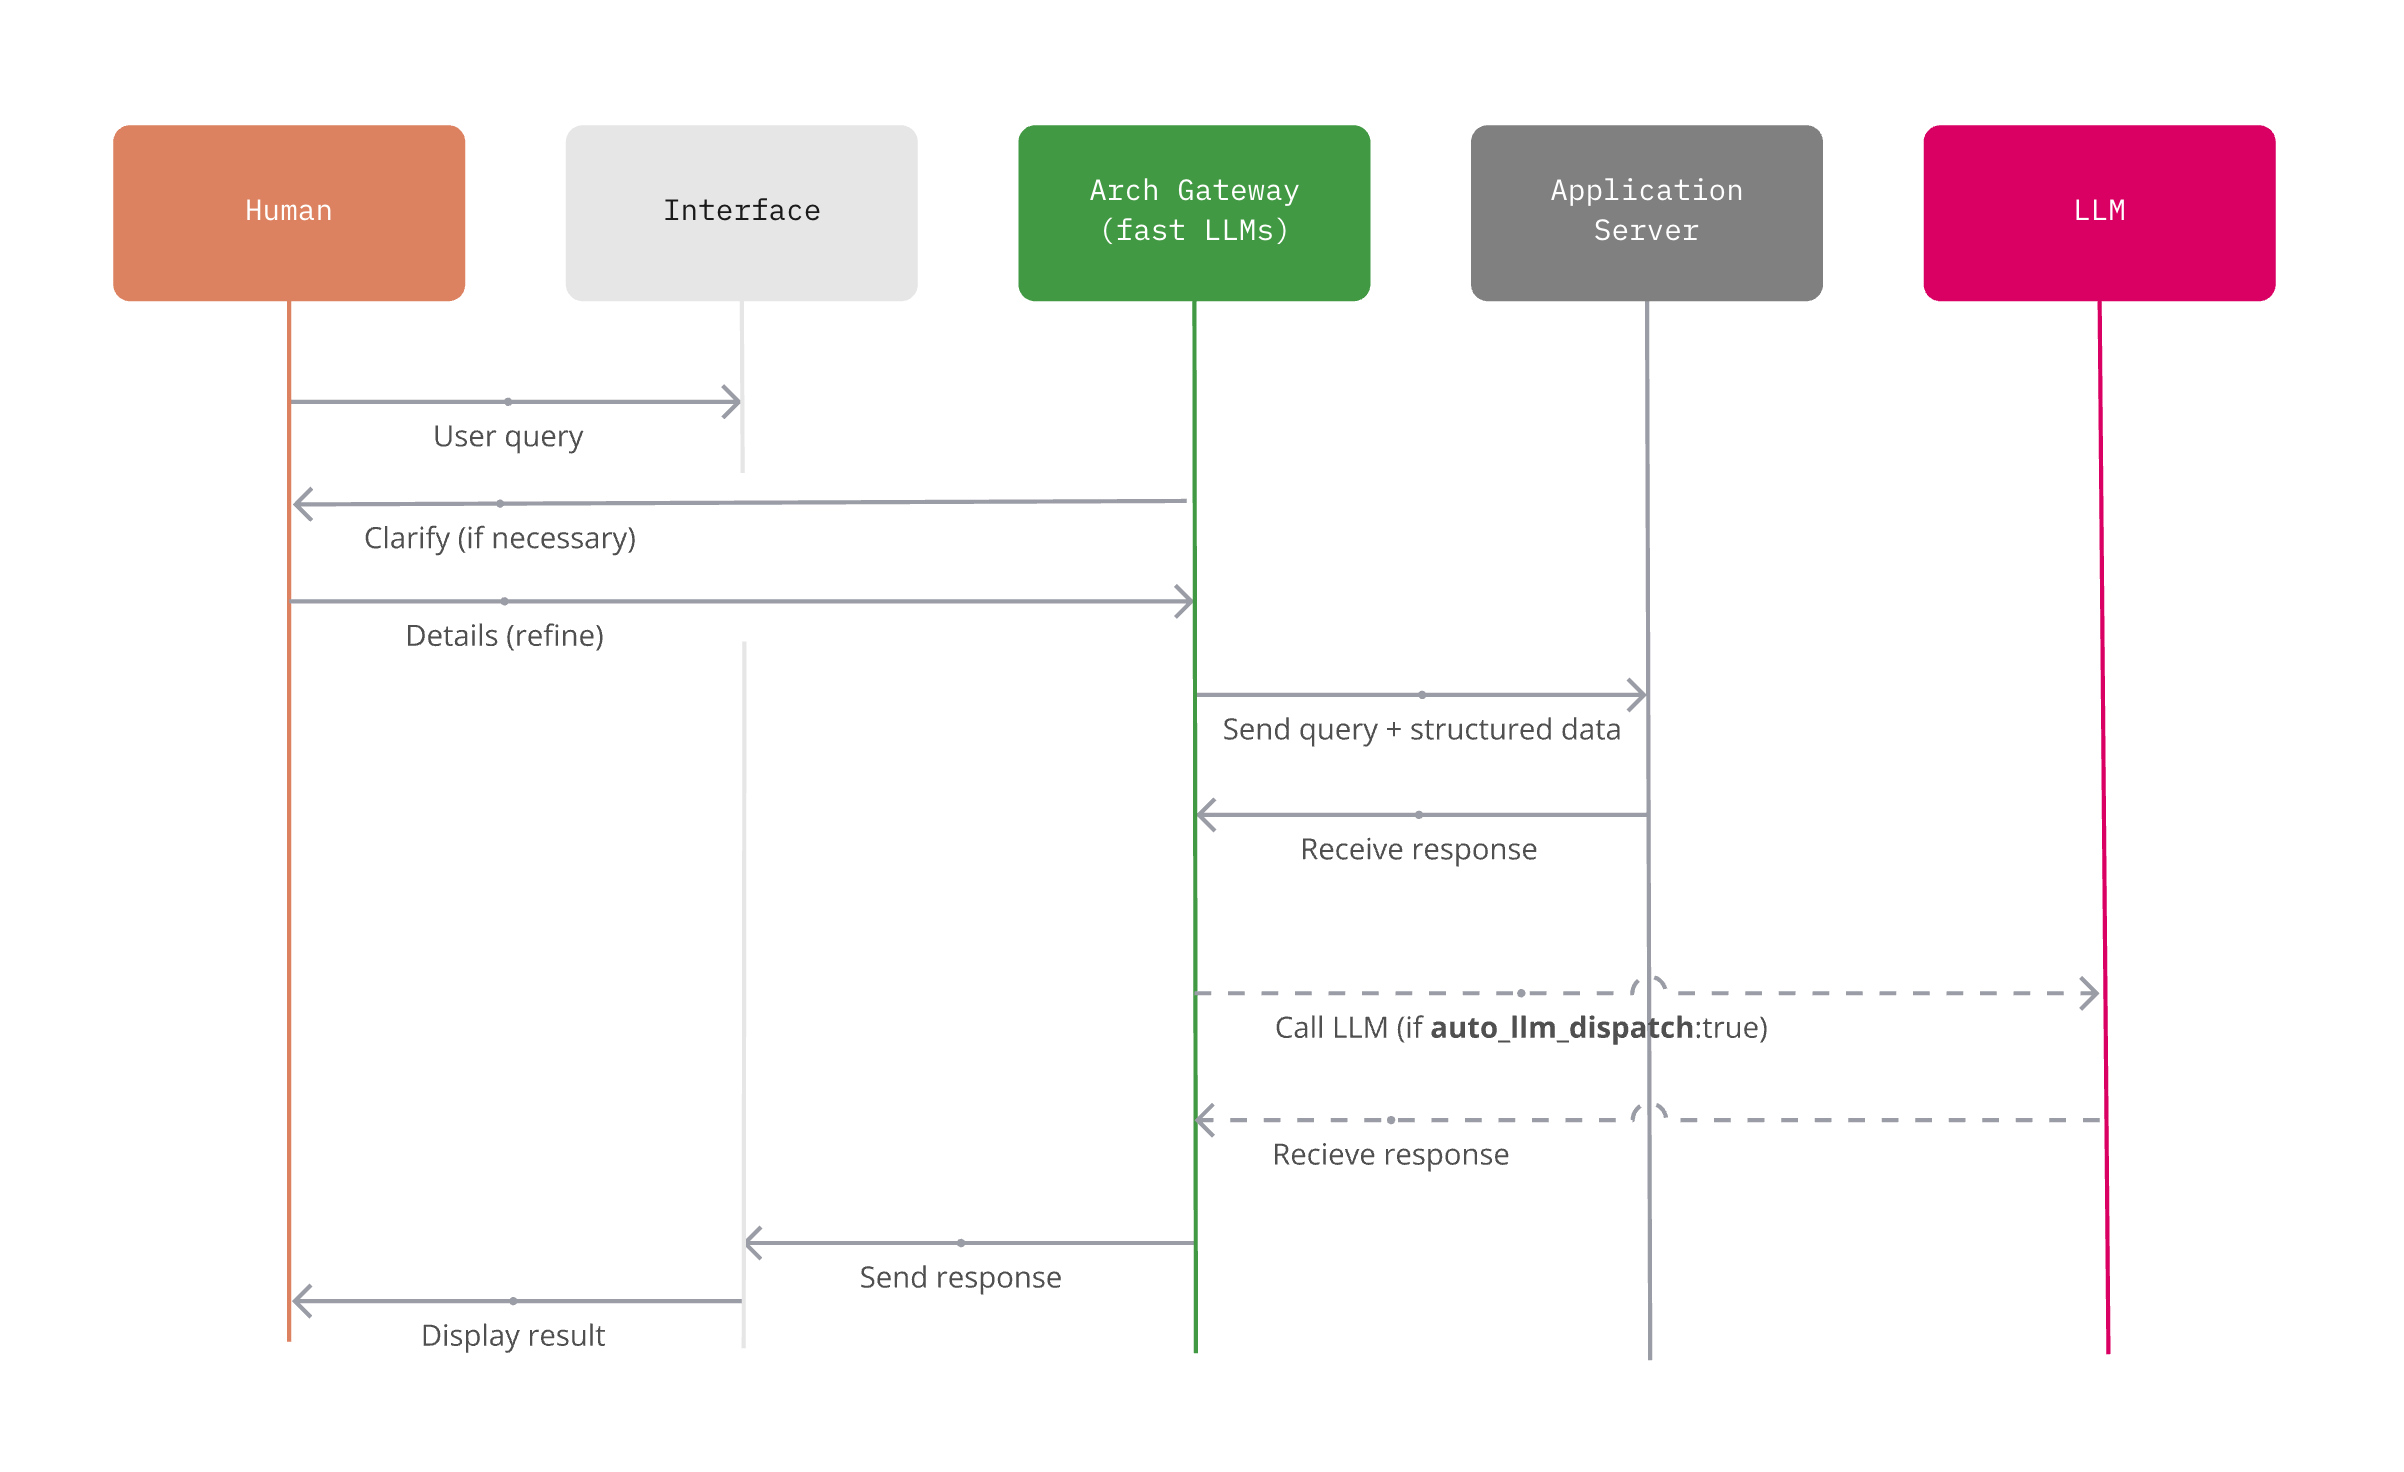
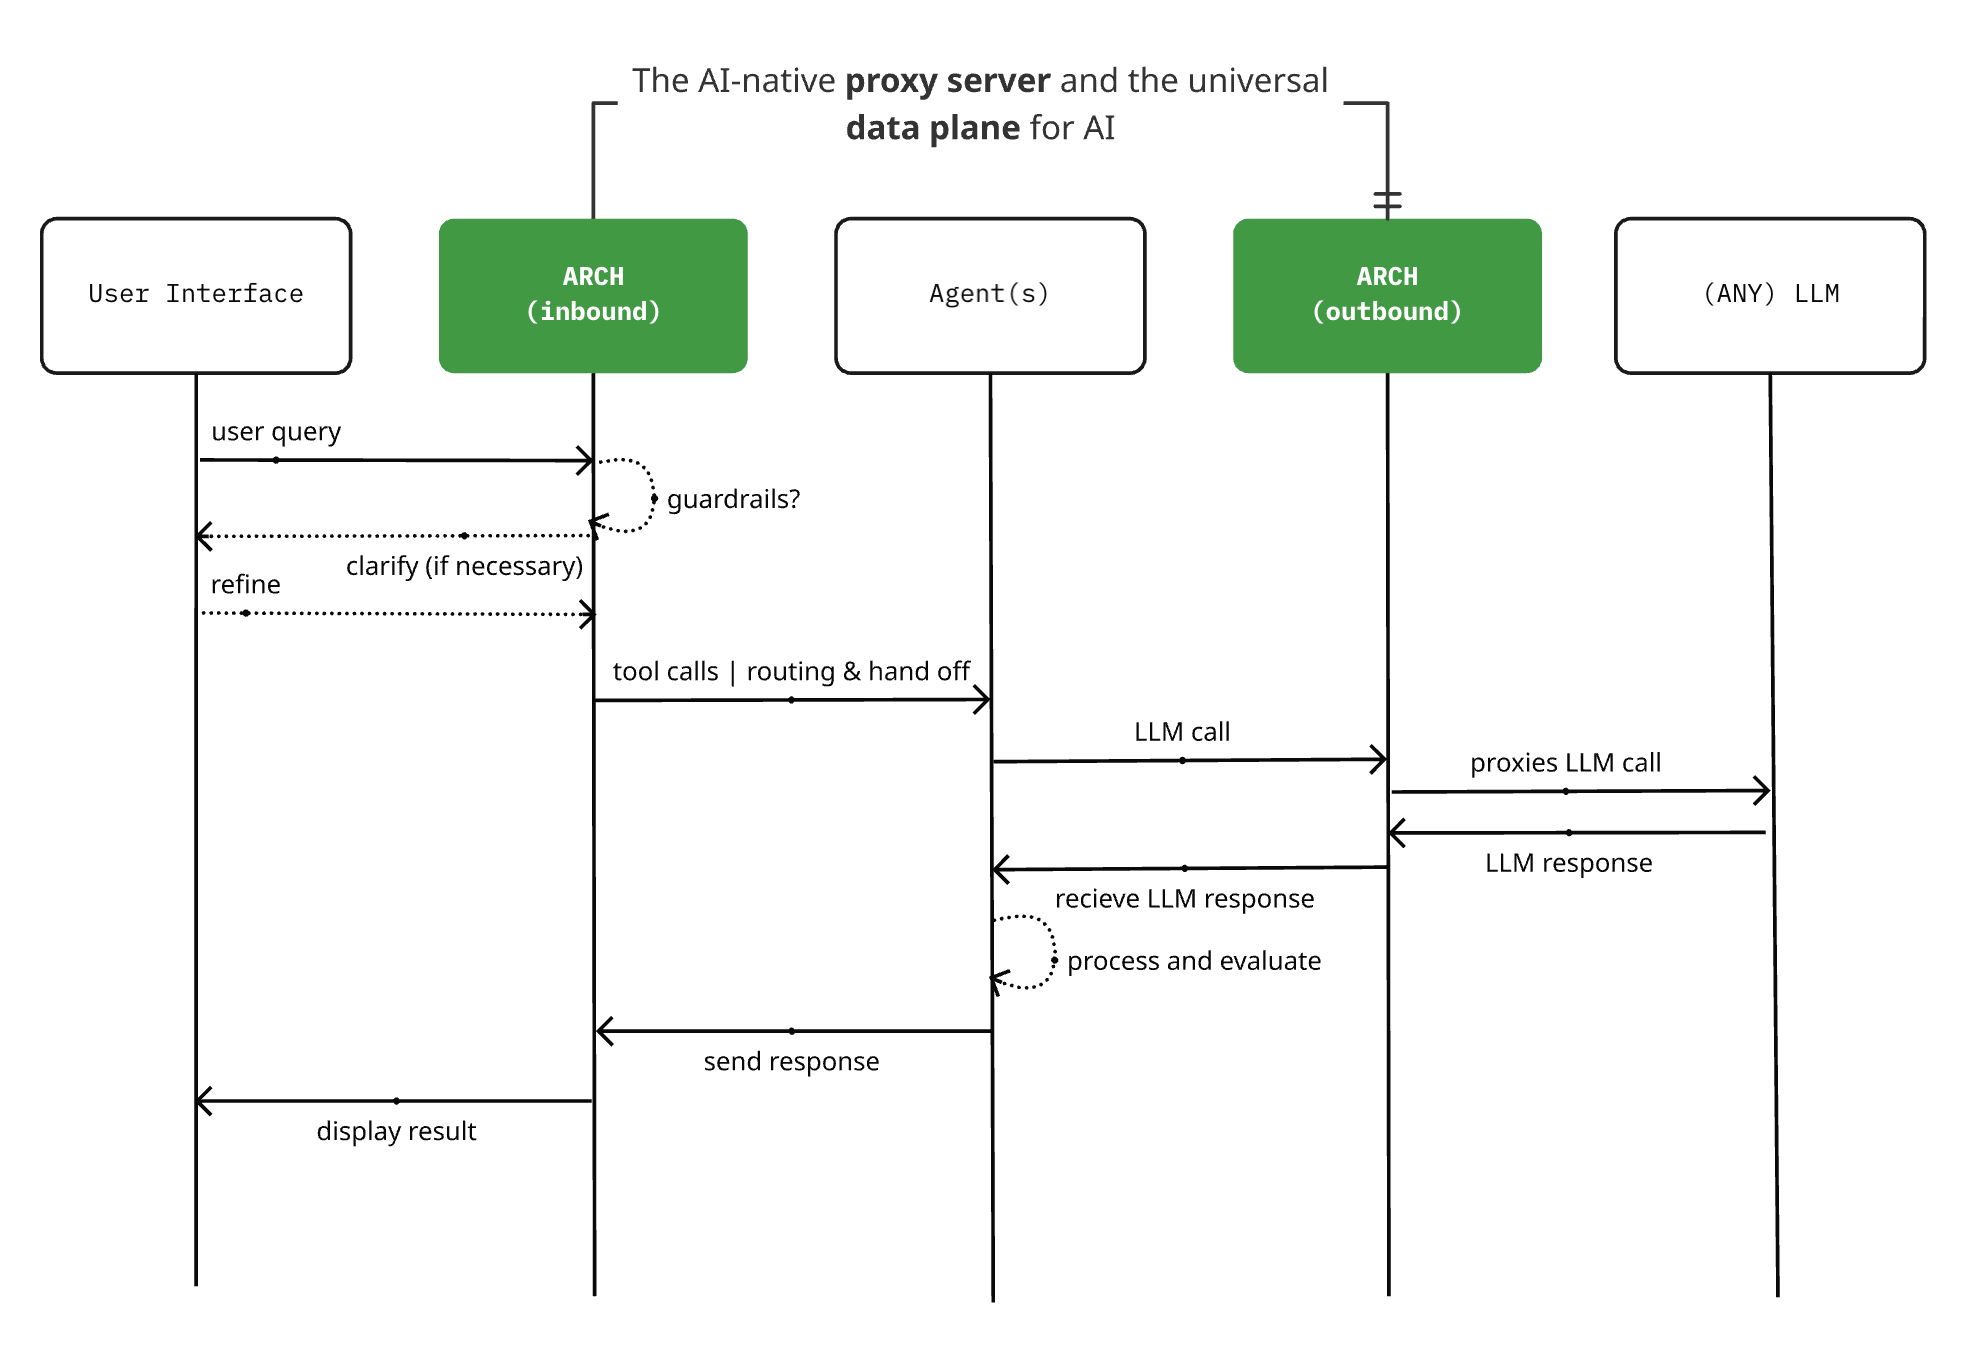
pushing docs updated

diff --git a/README.md b/README.md
@@ -1,11 +1,12 @@
 <div align="center">
-  <img src="docs/source/_static/img/arch-logo.png" alt="Arch Logo" width="75%" heigh=auto>
+  <img src="docs/source/_static/img/arch-logp.png" alt="Arch Logo" width="75%" heigh=auto>
 </div>
 <div align="center">
 
 
-_The AI-native proxy server for agentic applications._<br><br>
-Arch handles the **pesky**, low-level details like routing user prompts to the right agents or specialized Model Context Protocol (MCP) tools, providing unified access and observability to large language models (LLMs), and quickly clarifying vague user inputs. With Arch, you build faster by focusing on the high-level logic of agents.
+_The AI-native proxy server and the universal data plane for AI agents._<br><br>
+Arch implements **pesky**, low-level infrastructure patterns like quickly clarifying vague user inputs, routing prompts to the right agents or specialized Model Context Protocol (MCP) tools, and providing unified access and observability to large language models (LLMs) - all without locking you into a framework.. With Arch, you build faster by focusing on the high-level logic of your agents.
+
 
 [Quickstart](#Quickstart) •
 [Demos](#Demos) •
@@ -25,14 +26,14 @@ Arch handles the **pesky**, low-level details like routing user prompts to the r
 # Overview
 <a href="https://www.producthunt.com/posts/arch-3?embed=true&utm_source=badge-top-post-badge&utm_medium=badge&utm_souce=badge-arch&#0045;3" target="_blank"><img src="https://api.producthunt.com/widgets/embed-image/v1/top-post-badge.svg?post_id=565761&theme=dark&period=daily&t=1742359429995" alt="Arch - Build&#0032;fast&#0044;&#0032;hyper&#0045;personalized&#0032;agents&#0032;with&#0032;intelligent&#0032;infra | Product Hunt" style="width: 188px; height: 41px;" width="188" height="41" /></a>
 
-Past the thrill of an AI demo, have you found yourself hitting these walls? You know, the all too familiar ones:
+AI demos are easy to build. But past the thrill of a quick hack, you are left building, maintaining and scaling low-level plumbing code for agents that slows down AI innovation. For example:
 
-- You go from one BIG prompt to specialized prompts, but get stuck building **routing and handoff** code?
-- You want use new LLMs, but struggle to **quickly and safely add LLMs** without writing integration code?
-- You're bogged down with prompt engineering just to **clarify user intent and validate inputs** effectively?
-- You're wasting cycles choosing and integrating code for **observability** instead of it happening transparently?
+- You want to build specialized agents, but get stuck building **routing and handoff** code.
+- You want use new LLMs, but struggle to **quickly and safely add LLMs** without writing integration code.
+- You're bogged down with prompt engineering work to **clarify user intent and validate inputs**.
+- You're wasting cycles choosing and integrating code for **observability** instead of it happening transparently.
 
-And you think to yourself, can't I move faster by focusing on higher-level objectives in a language/framework agnostic way? Well, you can! **Arch Gateway** was built by the contributors of [Envoy Proxy](https://www.envoyproxy.io/) with the belief that:
+With Arch, you can move faster by focusing on higher-level objectives in a language and framework agnostic way. **Arch** was built by the contributors of [Envoy Proxy](https://www.envoyproxy.io/) with the belief that:
 
 >Prompts are nuanced and opaque user requests, which require the same capabilities as traditional HTTP requests including secure handling, intelligent routing, robust observability, and integration with backend (API) systems to improve speed and accuracy for common agentic scenarios  – all outside core application logic.*
 

diff --git a/docs/source/get_started/intro_to_arch.rst b/docs/source/get_started/intro_to_arch.rst
@@ -2,18 +2,16 @@
 
 Intro to Arch
 =============
+AI demos are easy to build. But past the thrill of a quick hack, you are left building, maintaining and scaling low-level plumbing code for agents that slows down AI innovation.
+For example:
 
-Arch is an intelligent proxy server designed agentic applications. **Move faster** by letting Arch handle the **pesky heavy lifting** in building agents:
-fast input clarification, agent routing, seamless integration of prompts with tools for common tasks, and unified access and observability of LLMs.
+- You want to build specialized agents, but get stuck writing **routing and handoff** code.
+- You bogged down with prompt engineering work to **clarify user intent and validate inputs**.
+- You want to **quickly and safely use new LLMs** but get stuck writing integration code.
+- You waste cycles writing and maintaining **observability** code, when it can be transparent.
+- You want to **apply guardrails**, but have to write custom code for each prompt and LLM.
 
-Past the thrill of an AI demo, have you found yourself hitting these walls? You know, the all too familiar ones:
-
-- You break a prompt into specialized ones, but **get stuck writing routing** and handoff logic?
-- You want use new LLMs, but **struggle to quickly add LLMs** without writing integration logic?
-- You're **trapped in tedious prompting work** to clarify inputs and user intents?
-- You're **wasting cycles** choosing and integrating **code for observability** instead of it just happening transparently?
-
-And you think to yourself, can't I move faster by focusing on higher-level objectives in a language and framework agnostic way? Well, you can!
+Arch is designed to solve these problems by providing a unified, out-of-process architecture that integrates with your existing application stack, enabling you to focus on building high-level features rather than plumbing — all without locking you into a framework.
 
 .. figure:: /_static/img/arch_network_diagram_high_level.png
    :width: 100%
@@ -22,7 +20,7 @@ And you think to yourself, can't I move faster by focusing on higher-level objec
    High-level network flow of where Arch Gateway sits in your agentic stack. Designed for both ingress and egress prompt traffic.
 
 
-**Arch Gateway was built by the contributors of Envoy Proxy with the belief that:**
+Arch is an AI-native proxy server and the universal data plane for AI built by the contributors of Envoy Proxy with the belief that:
 
   *Prompts are nuanced and opaque user requests, which require the same capabilities as traditional HTTP requests
   including secure handling, intelligent routing, robust observability, and integration with backend (API)
@@ -41,8 +39,8 @@ This gives Arch several advantages:
 
 * Arch can be deployed and upgraded quickly across your infrastructure transparently without the horrid pain of deploying library upgrades in your applications.
 
-**Engineered with Fast LLMs:** Arch is engineered with specialized small LLMs that are designed for fast, cost-effective and accurate handling of prompts.
-These LLMs are designed to be best-in-class for critical prompt-related tasks like:
+**Engineered with Fast Task-Specific LLMs (TLMs):** Arch is engineered with specialized LLMs that are designed for the fast, cost-effective and accurate handling of prompts.
+These LLMs are designed to be best-in-class for critical tasks like:
 
 * **Function Calling:** Arch helps you easily personalize your applications by enabling calls to application-specific (API) operations via user prompts.
   This involves any predefined functions or APIs you want to expose to users to perform tasks, gather information, or manipulate data.

diff --git a/docs/source/index.rst b/docs/source/index.rst
@@ -9,14 +9,14 @@ Welcome to Arch!
 
    <div style="text-align: center; font-size: 1.25rem;">
    <br>
-   <p>Build <strong>fast</strong>, <strong>observable</strong>, and <strong>personalized</strong> GenAI apps</p>
+   <p>Build <strong>fast</strong>, <strong>secure</strong>, and <strong>highly personalized</strong> AI.</p>
    </div>
 
    <a href="https://www.producthunt.com/posts/arch-3?embed=true&utm_source=badge-top-post-badge&utm_medium=badge&utm_souce=badge-arch&#0045;3" target="_blank"><img src="https://api.producthunt.com/widgets/embed-image/v1/top-post-badge.svg?post_id=565761&theme=dark&period=daily&t=1742433071161" alt="Arch - Build&#0032;fast&#0044;&#0032;hyper&#0045;personalized&#0032;agents&#0032;with&#0032;intelligent&#0032;infra | Product Hunt" style="width: 250px; height: 54px;" width="250" height="54" /></a>
 
-`Arch <https://github.com/katanemo/arch>`_ is an intelligent (edge and LLM) proxy, exclusively designed for prompts and agents - and built by the contributors of the widely adopted and loved `Envoy <https://www.envoyproxy.io/>`_ ).
+`Arch <https://github.com/katanemo/arch>`_ is an AI-native proxy server and the universal data plane for AI - one that is natively designed to handle and process AI prompts, not just network traffic.
 
-**Move faster** by letting Arch handle the **pesky heavy lifting** in building agents: fast input clarification, agent routing, seamless integration of prompts with tools for common tasks, and unified access and observability of LLMs - all outside business logic.
+Built by contributors to the widely adopted `Envoy Proxy <https://www.envoyproxy.io/>`_, Arch helps you move faster by handling the pesky heavy lifting in AI agent development—fast input clarification, intelligent agent routing, seamless prompt-to-tool integration, and unified LLM access and observability—all without locking you into a framework.
 
 .. tab-set::
 

diff --git a/docs/source/get_started/overview.rst b/docs/source/get_started/overview.rst
@@ -3,10 +3,10 @@
 
 Overview
 ============
-Welcome to Arch, The intelligent (edge and LLM) proxy server for agentic applications.
+`Arch <https://github.com/katanemo/arch>`_ is an AI-native proxy server and the universal data plane for AI - one that is natively designed to handle and process AI prompts, not just network traffic.
 
-Move **faster** by letting Arch handle the pesky heavy lifting in building agents: **fast input clarification**, **agent routing**,
-seamless integration of prompts with **tools for common tasks**, and **unified access and observability of LLMs**.
+Built by contributors to the widely adopted `Envoy Proxy <https://www.envoyproxy.io/>`_, Arch helps you move faster by handling the pesky heavy lifting in AI agent development—fast input clarification, intelligent agent routing, seamless prompt-to-tool integration, and unified LLM access and observability—all without locking you into a framework.
+
 
 In this documentation, you will learn how to quickly set up Arch to trigger API calls via prompts, apply prompt guardrails without writing any application-level logic,
 simplify the interaction with upstream LLMs, and improve observability all while simplifying your application development process.
